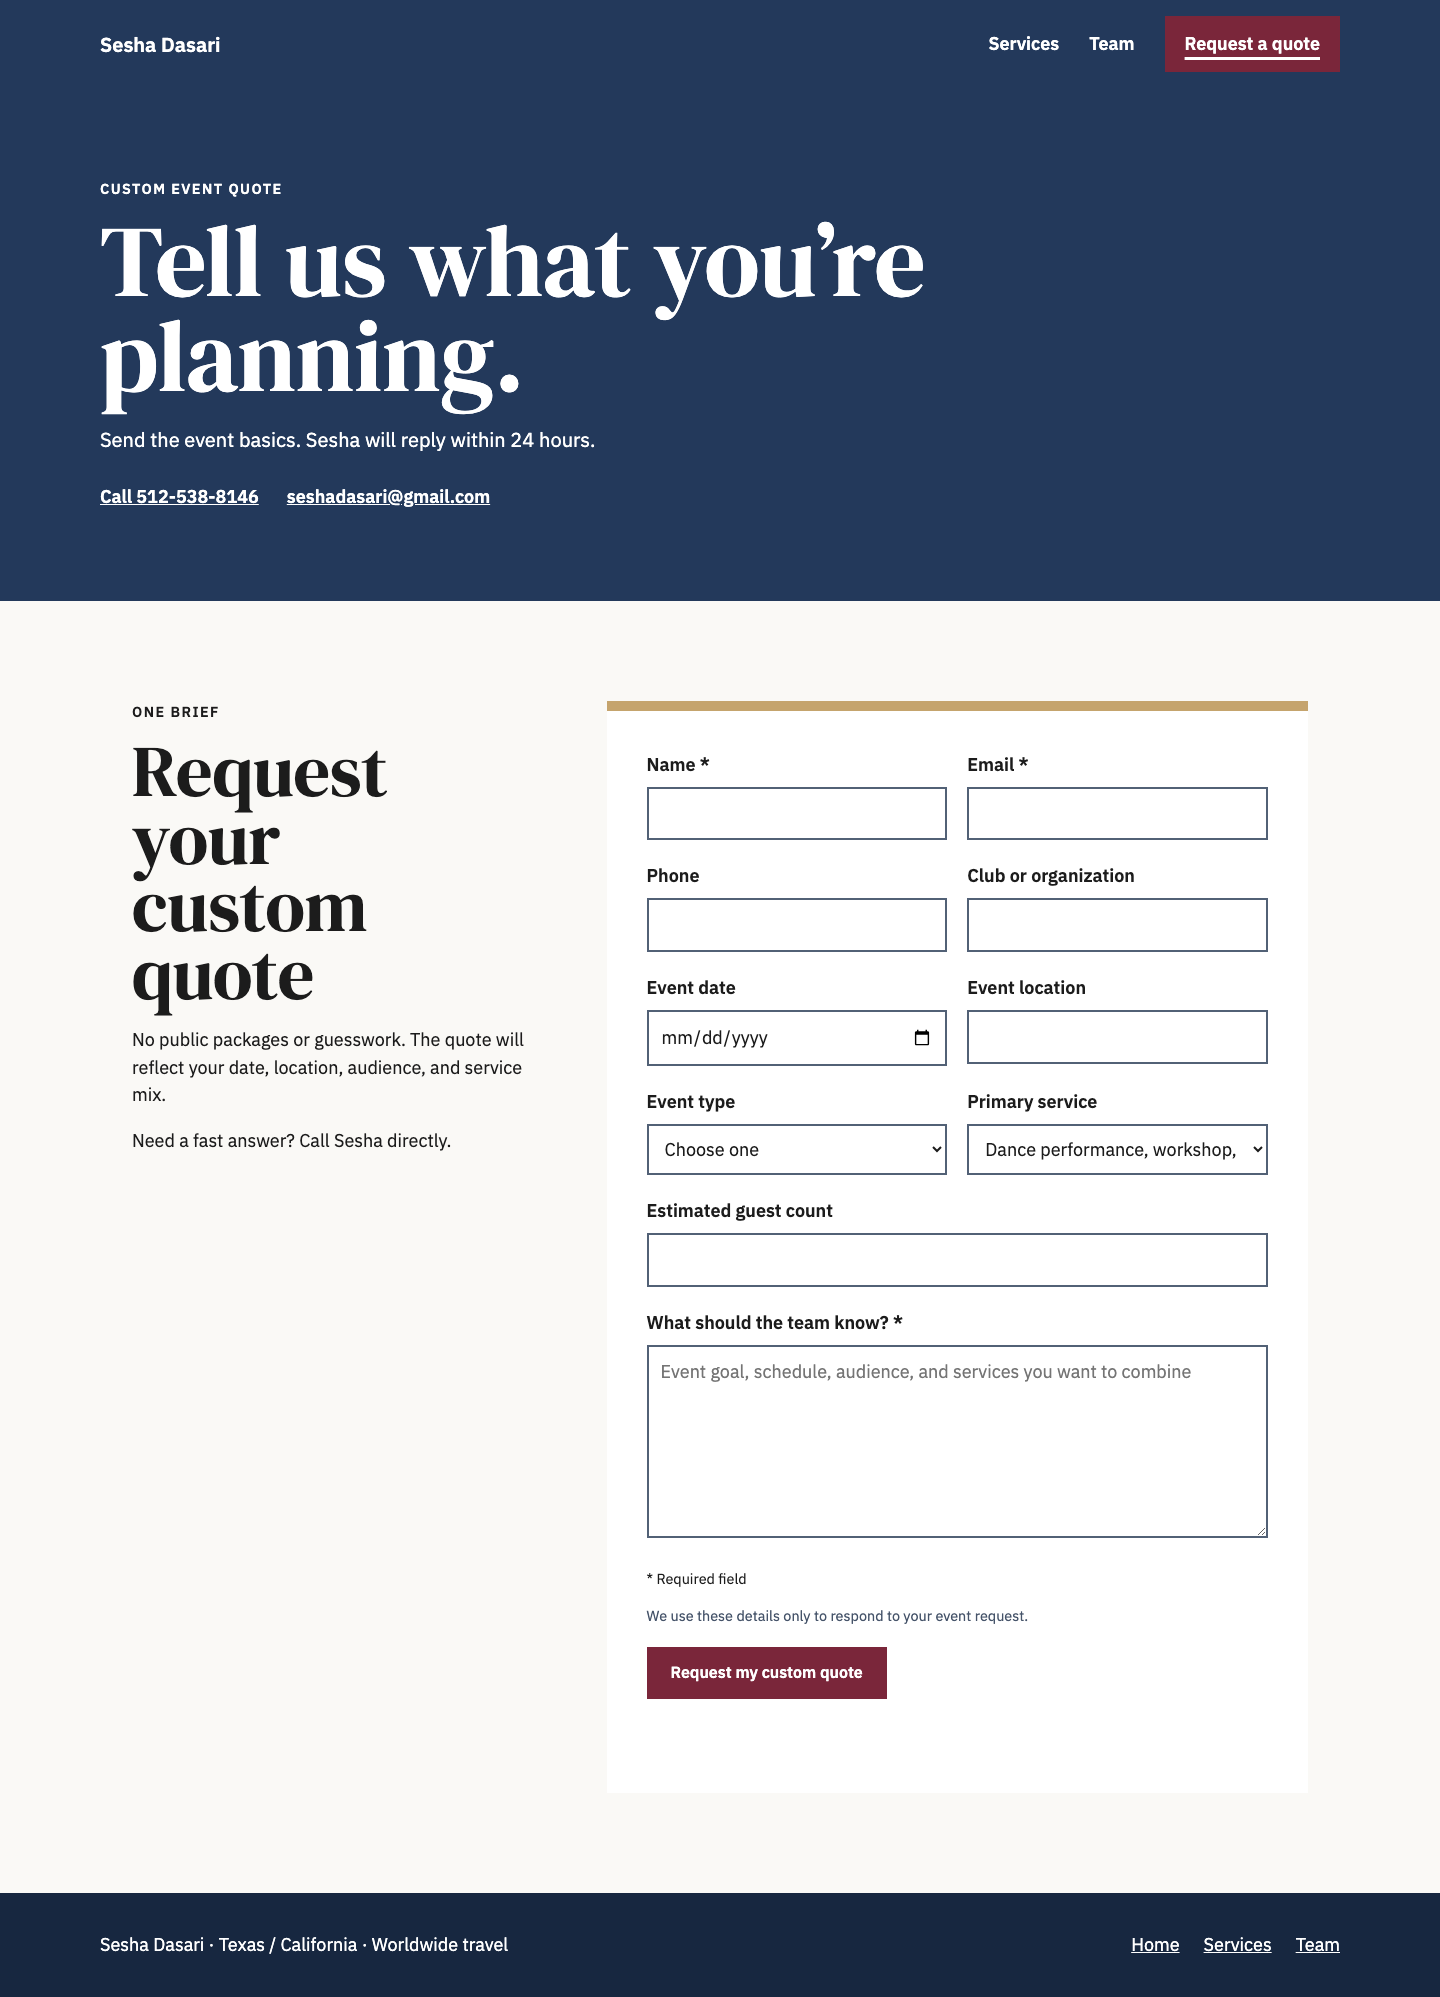
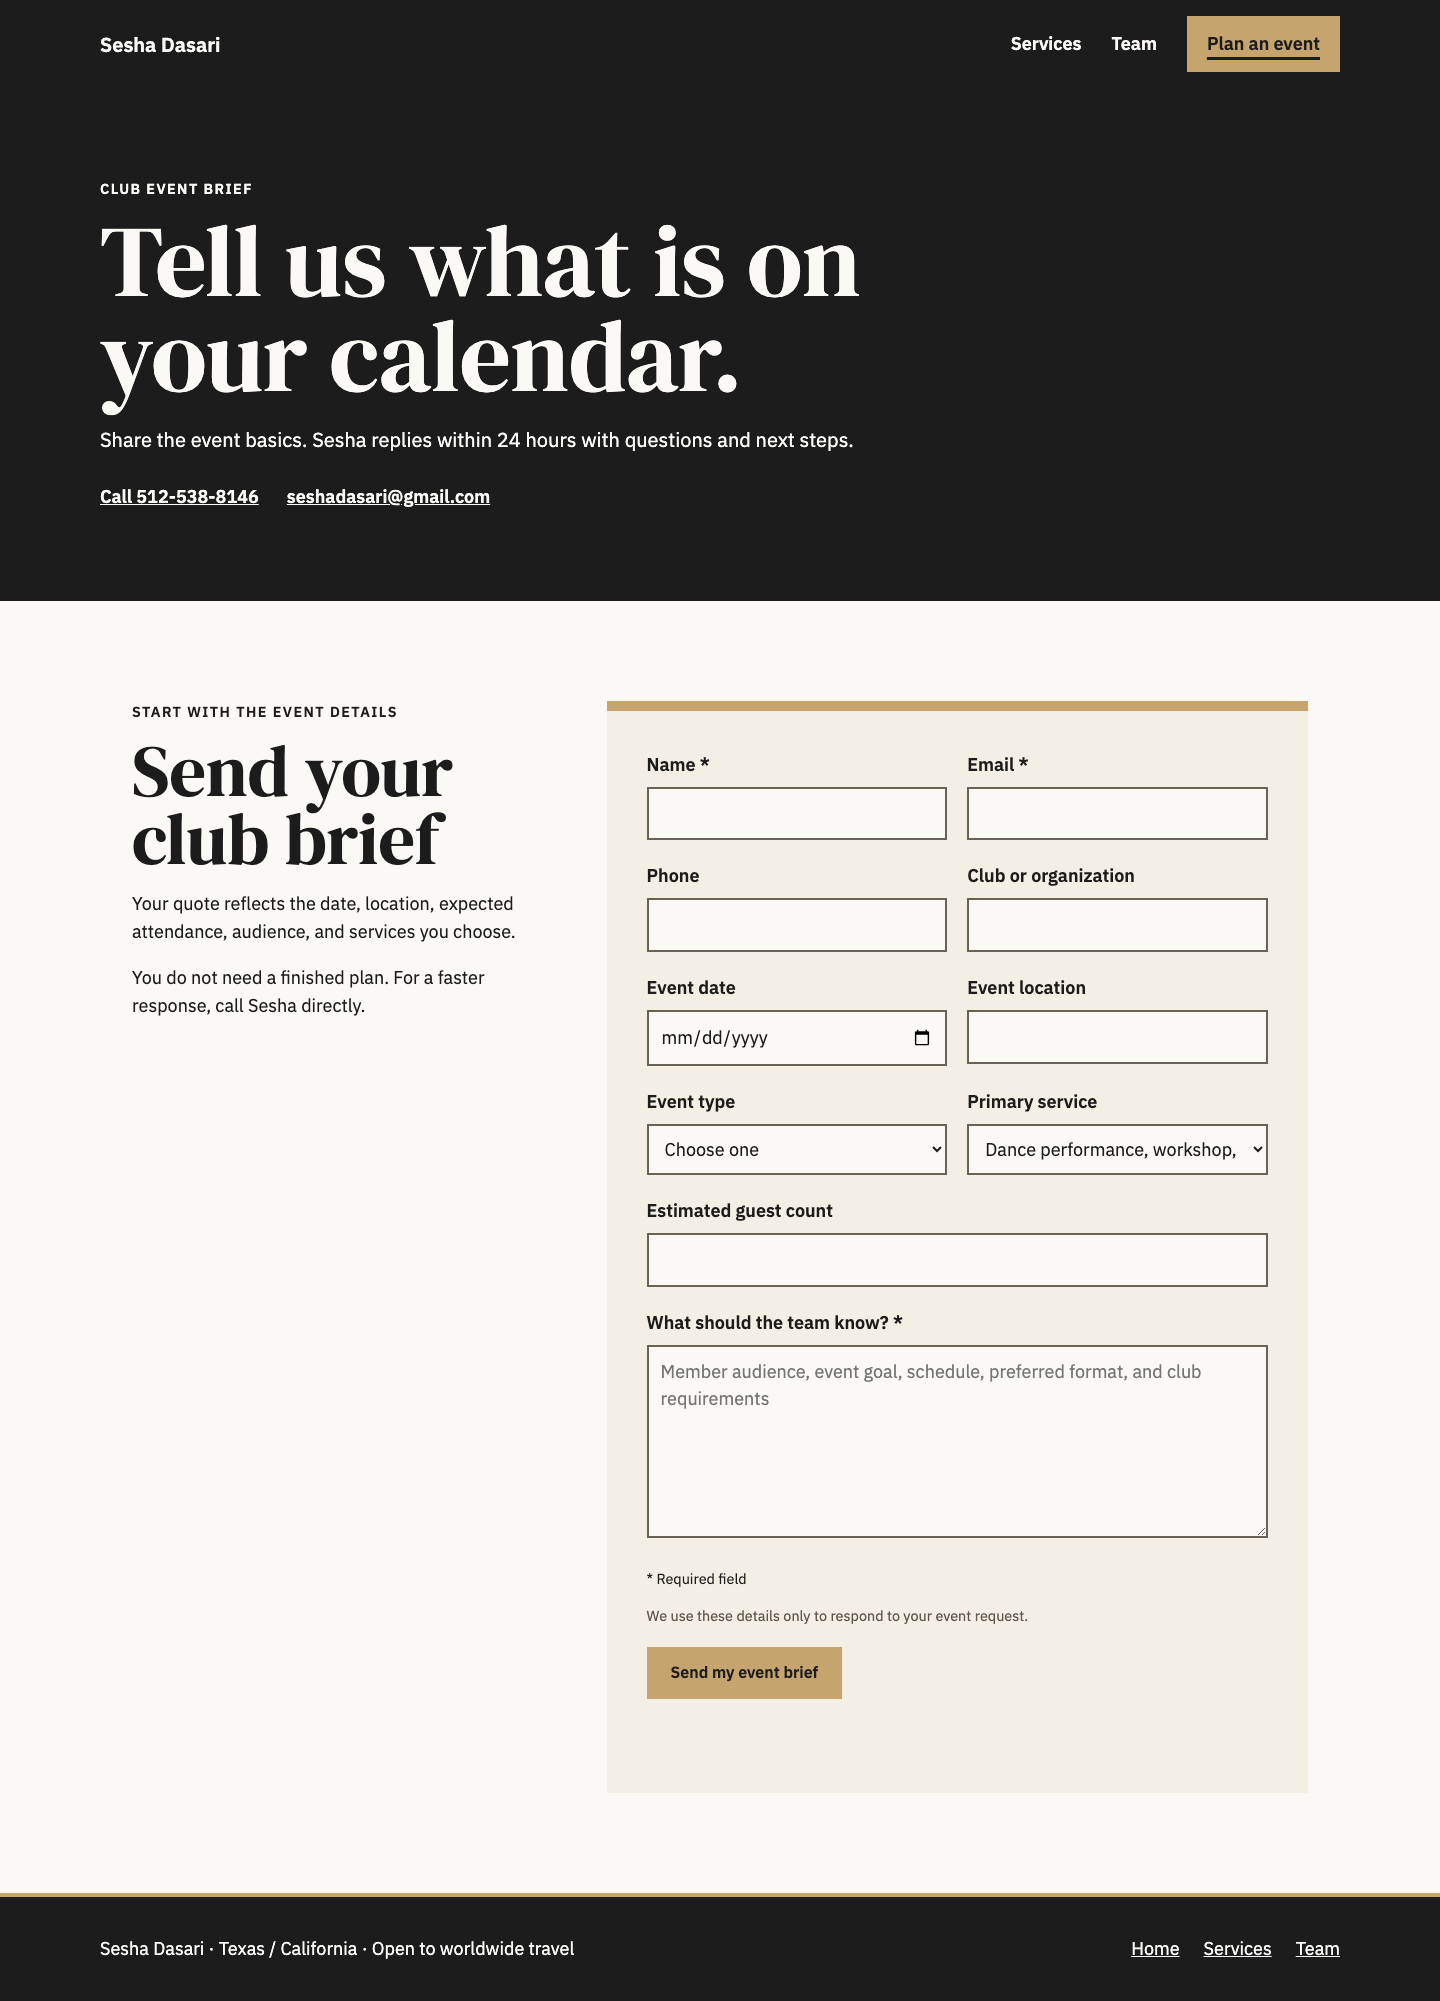
style: move site to ivory and gold palette
Remove visible blue and red from the selected public direction. Use charcoal for structure, cream and ivory for surfaces, and restrained gold for actions and accents. Refresh visual QA references and document the palette for Abin.

diff --git a/variants.css b/variants.css
@@ -40,3 +40,17 @@
 
 /* Private-club palette accessibility overrides */
 .variant-c .page-paths a:hover,.variant-c .page-paths a:focus-visible{color:var(--ink)}.variant-c .form-field input,.variant-c .form-field select,.variant-c .form-field textarea{color:var(--ink)}
+
+/* Ivory, charcoal, cream, and gold production palette */
+.variant-c{--navy:#1c1c1c;--paper:#faf9f6;--yellow:#c5a46d;--burgundy:#c5a46d;--ink:#1c1c1c;background:#faf9f6;color:#1c1c1c;color-scheme:light}
+.variant-c .site-top,.variant-c .hero-c,.variant-c .inner-hero,.variant-c .contact-copy,.variant-c .service-detail-hero,.variant-c .quote-hero{background:#1c1c1c;color:#faf9f6}
+.variant-c .site-top,.variant-c footer{border-color:#c5a46d}
+.variant-c .nav-action,.variant-c .primary-button{background:#c5a46d;color:#1c1c1c;border-color:#c5a46d}
+.variant-c .closing-c .primary-button,.variant-c .inner-cta .primary-button{background:#1c1c1c;color:#faf9f6;border-color:#1c1c1c}
+.variant-c .lead-c,.variant-c .team-page-hero,.variant-c .brief-card,.variant-c .service-card,.variant-c .media-preview,.variant-c .quote-form,.variant-c .proof-strip,.variant-c .photo-proof,.variant-c .roster-card,.variant-c .performer-pair,.variant-c .media-gallery,.variant-c .home-quote-form{background:#f4efe5}
+.variant-c footer{background:#1c1c1c;color:#faf9f6;border-top:4px solid #c5a46d}
+.variant-c .media-placeholder{background:linear-gradient(135deg,#1c1c1c,#3b332b);color:#faf9f6;border-color:#c5a46d}
+.variant-c .form-field input,.variant-c .form-field select,.variant-c .form-field textarea{border-color:#6b6256;background:#faf9f6;color:#1c1c1c}
+.variant-c .privacy-note{color:#5f554b}
+.variant-c .form-status.is-success,.variant-c .form-status.is-error{border-left-color:#9b7a42;background:#f4efe5;color:#1c1c1c}
+.variant-c :focus-visible{outline:3px solid #faf9f6;box-shadow:0 0 0 6px #c5a46d}

diff --git a/README.md b/README.md
@@ -27,11 +27,11 @@ See `VERSION_HISTORY.md` for checkpoints, tags, tested surfaces, and open risks.
 
 • Warm ivory `#FAF9F6` is the main background.
 • Charcoal `#1C1C1C` is the main reading color.
-• Deep navy `#23395B` carries navigation, hero sections, and selected states.
-• Burgundy `#7A263A` marks quote and booking actions.
-• Muted gold `#C5A46D` is limited to borders, cards, and large accent sections.
+• Cream `#F4EFE5` separates cards, forms, and proof sections from the page.
+• Muted gold `#C5A46D` marks quote actions, selected states, borders, and restrained accents.
+• Charcoal carries navigation, hero sections, footers, and secondary actions.
 
-Primary reading pairs exceed WCAG AAA contrast. Navy on muted gold measures `4.93:1` and is reserved for large or bold interface text. Color does not carry meaning without text, borders, or state labels.
+The selected public direction uses no blue or red. Charcoal text on muted gold measures about `7.2:1`. Ivory text on charcoal measures about `16.2:1`. Color does not carry meaning without text, borders, or state labels.
 
 ## Transcript-confirmed decisions
 

diff --git a/HANDOFF.md b/HANDOFF.md
@@ -5,7 +5,7 @@ This file is the operating guide for the Sesha Dasari event site.
 ## Current state
 
 • Source of truth: the `main` branch in the private GitHub repository.
-• Current release tag: `v0.3.1-abin-handoff`.
+• Current release tag: `v0.3.2-ivory-gold-palette`.
 • Production site: https://sesha-country-club-site.netlify.app/
 • Netlify project: https://app.netlify.com/projects/sesha-country-club-site
 • Netlify Forms: https://app.netlify.com/projects/sesha-country-club-site/forms
@@ -118,6 +118,7 @@ Never place Netlify tokens, email passwords, lead exports, or private contact da
 • Keep large video files outside Git. Link approved YouTube, Instagram, or hosted video pages.
 • The Scarlett Johansson image requires written usage approval. Avoid language that implies endorsement.
 • Keep Sesha as the main contact. Team members may serve more than one service lane.
+• Keep the selected palette to ivory, charcoal, cream, and restrained gold. Do not reintroduce blue or red without team approval.
 
 ## Rollback
 

diff --git a/VERSION_HISTORY.md b/VERSION_HISTORY.md
@@ -2,6 +2,19 @@
 
 This repository starts with honest source checkpoints. The labels below do not claim earlier Git history that never existed.
 
+## v0.3.2-ivory-gold-palette
+
+Selected public-site palette release.
+
+• Removes visible navy and burgundy from the selected public direction.
+• Uses warm ivory for page space and cream for cards, forms, and proof sections.
+• Uses charcoal for text, navigation, major hero contrast, footers, and secondary actions.
+• Reserves muted gold for primary actions, selected states, borders, and restrained accents.
+• Restyles form feedback without red or green status fills while retaining text labels.
+• Keeps focus rings and form controls visible against each surface.
+
+Tested surfaces: desktop and mobile screenshots, internal navigation, service filters, form controls, responsive overflow, production packaging, and live deployment.
+
 ## v0.3.1-abin-handoff
 
 Operational handoff release. This release does not change the public site.
